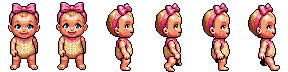
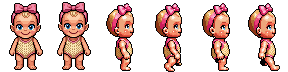
Redraw Lucy's front idle with both arms
The template's south idle had only one arm. Rendered fresh at her size
with the old frame as reference; the breathing frame is derived from it.
Walk frames unchanged.

Changed region(s): [[0.1875, 0.0278, 0.3438, 0.9722], [0.0, 0.0278, 0.1562, 0.9722]]

diff --git a/art/pixellab/characters.md b/art/pixellab/characters.md
@@ -110,6 +110,17 @@ Both old frames were drawn taller than the idle and ran off the 72px bottom. Red
   background out, so her head, romper and feet are byte-identical to the apart frame. Zero drift
   outside the mask.
 
+## Lucy's front idle redone (2026-09-19): both arms
+
+The original south idle from the character template had only one arm (her right side was empty).
+Two inpaint attempts (seeds 321/322, masks beside the torso) drew a sliver or a tucked arm that
+did not match the other side, so the frame was rendered fresh instead: `/generate-image-v2` at
+56x88 with the old idle frame as the reference ("exactly the same size and proportions, but with
+both arms hanging at her sides"), seed 332 candidate 1, which came out at the idle's 67px height
+(seed 331's candidates were 72-74px). Fitted feet-to-row-70 by the leg match (dx -3). The
+breathing frame is derived in code from it: everything above row 39 (head and bow) moved up one
+pixel. Raw in `raw/lucy_idle_front_seed332_1.png`. Walk frames untouched.
+
 ## Slide ride: seated, seen from behind (2026-09-18)
 
 `theo_slide.png` 128x72 (two 64x72 frames) and `lucy_slide.png` 96x56 (two 48x56 frames):
